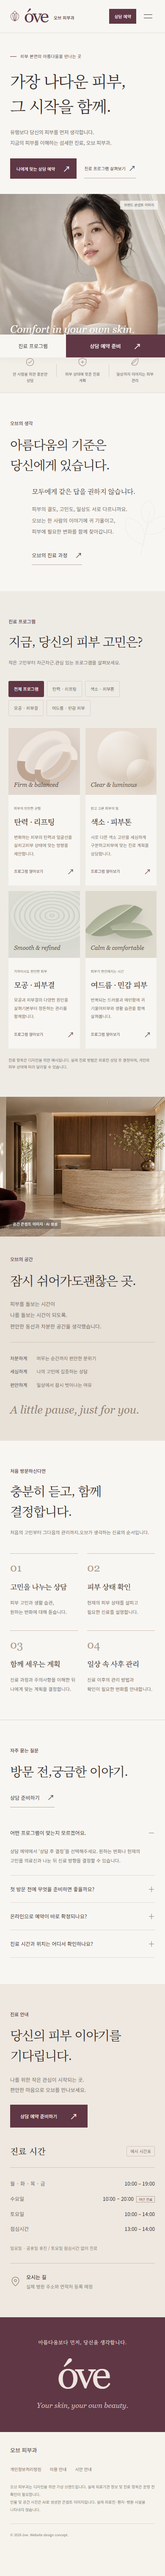
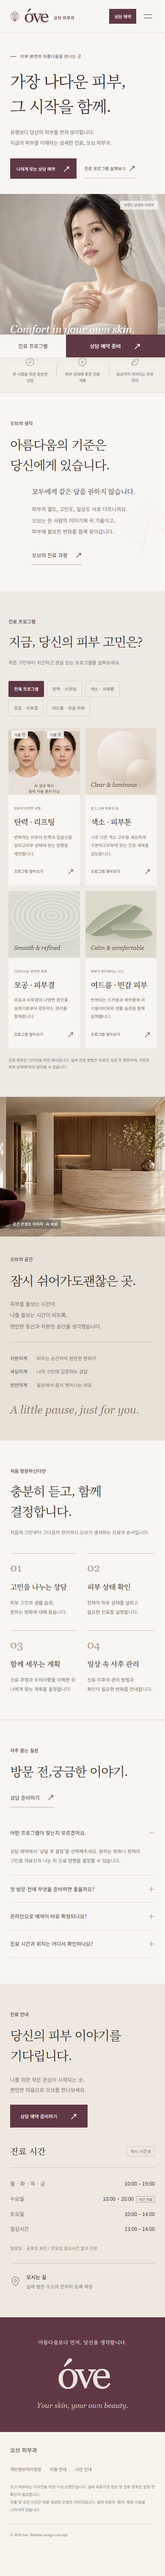
Prepare dermatology site for GitHub Pages

Changed region(s): [[0.0615, 0.2811, 0.4615, 0.3123]]

diff --git a/index.html b/index.html
@@ -52,7 +52,7 @@
       <div class="section-topline"><div><p class="section-kicker">진료 프로그램</p><h2 id="care-title">지금, 당신의 피부 고민은?</h2></div><p class="section-description">작은 고민부터 차근차근.<br>관심 있는 프로그램을 살펴보세요.</p></div>
       <div class="care-tabs" role="tablist" aria-label="피부 고민 선택"><button id="tab-all" role="tab" aria-selected="true" aria-controls="care-panel" data-category="all" tabindex="0">전체 프로그램</button><button id="tab-elasticity" role="tab" aria-selected="false" aria-controls="care-panel" data-category="elasticity" tabindex="-1">탄력 · 리프팅</button><button id="tab-tone" role="tab" aria-selected="false" aria-controls="care-panel" data-category="tone" tabindex="-1">색소 · 피부톤</button><button id="tab-texture" role="tab" aria-selected="false" aria-controls="care-panel" data-category="texture" tabindex="-1">모공 · 피부결</button><button id="tab-trouble" role="tab" aria-selected="false" aria-controls="care-panel" data-category="trouble" tabindex="-1">여드름 · 민감 피부</button></div>
       <div id="care-panel" class="care-grid" role="tabpanel" aria-labelledby="tab-all" tabindex="0">
-        <article class="care-card" data-care="elasticity"><div class="care-art art-lift" aria-hidden="true"><div class="silk-loop loop-one"></div><div class="silk-loop loop-two"></div><span>Firm &amp; balanced</span></div><div class="care-card-body"><span class="care-subtitle">피부의 탄탄한 균형</span><h3>탄력 · 리프팅</h3><p>변화하는 피부의 탄력과 얼굴선을 살피고<br>피부 상태에 맞는 방향을 제안합니다.</p><button class="card-link" data-detail="elasticity">프로그램 알아보기 <span aria-hidden="true">↗</span></button></div></article>
+        <article class="care-card" data-care="elasticity"><div class="care-art art-lift care-comparison"><img src="assets/lifting-before-after.png" alt="동일한 가상의 30대 한국 여성의 탄력·리프팅 시술 전후를 표현한 AI 생성 예시. 실제 환자나 시술 결과가 아닙니다." width="1536" height="1024" loading="lazy"><div class="comparison-labels" aria-hidden="true"><span>시술 전</span><span>시술 후</span></div><small class="comparison-note">AI 생성 예시<br>실제 시술 결과 아님</small></div><div class="care-card-body"><span class="care-subtitle">피부의 탄탄한 균형</span><h3>탄력 · 리프팅</h3><p>변화하는 피부의 탄력과 얼굴선을 살피고<br>피부 상태에 맞는 방향을 제안합니다.</p><button class="card-link" data-detail="elasticity">프로그램 알아보기 <span aria-hidden="true">↗</span></button></div></article>
         <article class="care-card" data-care="tone"><div class="care-art art-tone" aria-hidden="true"><div class="glass-sphere sphere-one"></div><div class="glass-sphere sphere-two"></div><span>Clear &amp; luminous</span></div><div class="care-card-body"><span class="care-subtitle">맑고 고른 피부의 빛</span><h3>색소 · 피부톤</h3><p>서로 다른 색소 고민을 세심하게 구분하고<br>피부에 맞는 진료 계획을 상담합니다.</p><button class="card-link" data-detail="tone">프로그램 알아보기 <span aria-hidden="true">↗</span></button></div></article>
         <article class="care-card" data-care="texture"><div class="care-art art-texture" aria-hidden="true"><div class="ripple"></div><span>Smooth &amp; refined</span></div><div class="care-card-body"><span class="care-subtitle">가까이서도 편안한 피부</span><h3>모공 · 피부결</h3><p>모공과 피부결의 다양한 원인을 살펴<br>기본부터 정돈하는 관리를 함께합니다.</p><button class="card-link" data-detail="texture">프로그램 알아보기 <span aria-hidden="true">↗</span></button></div></article>
         <article class="care-card" data-care="trouble"><div class="care-art art-calm" aria-hidden="true"><div class="calm-leaf leaf-one"></div><div class="calm-leaf leaf-two"></div><span>Calm &amp; comfortable</span></div><div class="care-card-body"><span class="care-subtitle">피부가 편안해지는 시간</span><h3>여드름 · 민감 피부</h3><p>반복되는 트러블과 예민함에 귀 기울여<br>피부와 생활 습관을 함께 살펴봅니다.</p><button class="card-link" data-detail="trouble">프로그램 알아보기 <span aria-hidden="true">↗</span></button></div></article>
@@ -73,7 +73,7 @@
   <footer class="site-footer"><div class="footer-top"><a class="footer-brand" href="#home">오브 피부과</a><div><button data-policy="privacy">개인정보처리방침</button><button data-policy="terms">이용 안내</button><button data-policy="demo">시안 안내</button></div></div><p>오브 피부과는 디자인을 위한 가상 브랜드입니다. 실제 의료기관 정보 및 진료 항목은 운영 전 확인이 필요합니다.<br>인물 및 공간 사진은 AI로 생성한 콘셉트 이미지입니다. 실제 의료진·환자·병원 시설을 나타내지 않습니다.</p><div class="footer-bottom"><span>© 2026 óve. Website design concept.</span><span>본연의 아름다움에 집중합니다.</span></div></footer>
   <div class="mobile-book-bar"><a href="#care">진료 프로그램</a><button data-book>상담 예약 준비 <span aria-hidden="true">↗</span></button></div>
 
-  <dialog id="booking-dialog" class="modal booking-modal" aria-labelledby="booking-title"><button class="modal-close" data-close aria-label="창 닫기">×</button><div id="booking-form-view"><p class="section-kicker">오브 상담 예약</p><h2 id="booking-title">피부 이야기를 들려주세요.</h2><p class="modal-intro">원하시는 상담 내용을 미리 정리해보세요.</p><p class="demo-notice">디자인 시안입니다. 입력 정보는 저장·전송되지 않으며 실제 예약은 접수되지 않습니다.</p><form id="booking-form"><div class="form-row"><label>이름<input name="name" autocomplete="off" placeholder="이름을 입력해주세요" required maxlength="30"></label><label>연락처<input name="phone" type="tel" inputmode="tel" autocomplete="off" placeholder="010-0000-0000" required maxlength="15" pattern="01[016789]-?[0-9]{3,4}-?[0-9]{4}" title="휴대전화 번호를 확인해주세요. 예: 010-1234-5678"></label></div><label>관심 프로그램<select name="program"><option value="undecided">상담 후 결정</option value="elasticity">탄력 · 리프팅</option><option value="tone">색소 · 피부톤</option><option value="texture">모공 · 피부결</option><option value="trouble">여드름 · 민감 피부</option></select></label><div class="form-row"><label>희망 날짜<input name="date" type="date" required></label><label>희망 시간<select name="time" required><option value="">시간을 선택해주세요</option></select></label></div><p id="date-hint" class="field-hint" aria-live="polite">예시 진료 시간 기준으로 선택할 수 있습니다.</p><label class="checkbox-label"><input type="checkbox" name="acknowledge" required><span>이 화면은 실제 예약 접수가 아닌 체험용임을 확인했습니다.</span></label><button class="button button-dark form-submit" type="submit">상담 내용 확인하기 <span aria-hidden="true">↗</span></button></form></div><div id="booking-review" hidden><p class="section-kicker">상담 내용 미리보기</p><h2 id="review-title" tabindex="-1">상담 준비가 되었습니다.</h2><p class="modal-intro">아래 내용은 이 화면에서만 확인할 수 있습니다.</p><dl id="review-content" class="review-content"></dl><p class="demo-notice">병원에 전송되지 않았습니다. 실제 예약은 병원 연락처와 예약 서비스를 연결한 후 이용할 수 있습니다.</p><button class="button button-dark form-submit" id="edit-booking">내용 수정하기</button></div></dialog>
+  <dialog id="booking-dialog" class="modal booking-modal" aria-labelledby="booking-title"><button class="modal-close" data-close aria-label="창 닫기">×</button><div id="booking-form-view"><p class="section-kicker">오브 상담 예약</p><h2 id="booking-title">피부 이야기를 들려주세요.</h2><p class="modal-intro">원하시는 상담 내용을 미리 정리해보세요.</p><p class="demo-notice">디자인 시안입니다. 입력 정보는 저장·전송되지 않으며 실제 예약은 접수되지 않습니다.</p><form id="booking-form"><div class="form-row"><label>이름<input name="name" autocomplete="off" placeholder="이름을 입력해주세요" required maxlength="30"></label><label>연락처<input name="phone" type="tel" inputmode="tel" autocomplete="off" placeholder="010-0000-0000" required maxlength="15" pattern="01[016789]-?[0-9]{3,4}-?[0-9]{4}" title="휴대전화 번호를 확인해주세요. 예: 010-1234-5678"></label></div><label>관심 프로그램<select name="program"><option value="undecided">상담 후 결정</option><option value="elasticity">탄력 · 리프팅</option><option value="tone">색소 · 피부톤</option><option value="texture">모공 · 피부결</option><option value="trouble">여드름 · 민감 피부</option></select></label><div class="form-row"><label>희망 날짜<input name="date" type="date" required></label><label>희망 시간<select name="time" required><option value="">시간을 선택해주세요</option></select></label></div><p id="date-hint" class="field-hint" aria-live="polite">예시 진료 시간 기준으로 선택할 수 있습니다.</p><label class="checkbox-label"><input type="checkbox" name="acknowledge" required><span>이 화면은 실제 예약 접수가 아닌 체험용임을 확인했습니다.</span></label><button class="button button-dark form-submit" type="submit">상담 내용 확인하기 <span aria-hidden="true">↗</span></button></form></div><div id="booking-review" hidden><p class="section-kicker">상담 내용 미리보기</p><h2 id="review-title" tabindex="-1">상담 준비가 되었습니다.</h2><p class="modal-intro">아래 내용은 이 화면에서만 확인할 수 있습니다.</p><dl id="review-content" class="review-content"></dl><p class="demo-notice">병원에 전송되지 않았습니다. 실제 예약은 병원 연락처와 예약 서비스를 연결한 후 이용할 수 있습니다.</p><button class="button button-dark form-submit" id="edit-booking">내용 수정하기</button></div></dialog>
   <dialog id="info-dialog" class="modal info-modal" aria-labelledby="info-title"><button class="modal-close" data-close aria-label="창 닫기">×</button><p class="section-kicker" id="info-kicker"></p><h2 id="info-title"></h2><div id="info-content"></div><button class="button button-dark" id="info-book">이 프로그램 상담 준비 <span aria-hidden="true">↗</span></button></dialog>
 </body>
 </html>

diff --git a/styles.css b/styles.css
@@ -13,3 +13,5 @@
 @media(max-width:680px){html{scroll-padding-top:78px}.section-shell{padding:62px 24px}.site-header{height:78px;padding:0 22px;position:sticky;top:0}.brand{gap:9px}.brand-mark{width:26px;height:33px}.wordmark{font-size:44px;gap:15px}.brand-ko{display:block;font-size:10px;letter-spacing:0;padding-top:7px}.desktop-nav{display:none}.header-actions{gap:10px}.header-actions .button-small{min-height:35px;padding:9px 12px;font-size:10px}.header-actions .button-small svg{display:none}.menu-toggle{display:block}.menu-toggle[aria-expanded=true] span:first-child{transform:translateY(4px) rotate(45deg)}.menu-toggle[aria-expanded=true] span:last-child{transform:translateY(-4px) rotate(-45deg)}.mobile-nav{position:absolute;top:78px;left:0;right:0;padding:12px 24px 22px;background:var(--paper);border-bottom:1px solid var(--line);box-shadow:0 10px 14px #322b2208}.mobile-nav.open{display:flex;flex-direction:column}.mobile-nav a{padding:13px 0;border-bottom:1px solid #e9e2d8;font-size:13px}.hero{display:flex;flex-direction:column;min-height:0}.hero-copy{padding:46px 24px 36px;order:0}.hero-intro{font-size:10px;margin-bottom:20px;gap:9px}.hero h1{font-size:38px;line-height:1.55}.hero-description{font-size:12px;margin-top:19px}.hero-actions{flex-direction:row;align-items:center;gap:18px;margin-top:25px}.hero-actions .button{font-size:10px;padding:15px 15px;gap:18px;min-height:47px}.hero-actions .text-link{font-size:10px;gap:7px}.hero-signature{display:none}.hero-visual{height:365px;order:1}.hero-visual>img{object-position:62% 40%}.image-caption{bottom:23px;left:24px;right:24px;font-size:25px}.image-caption>span:last-child{display:none}.hero-image-note{top:16px;right:17px;font-size:8px}.scroll-cue{display:none}.values-strip{padding:20px 24px;justify-content:space-between;gap:12px}.values-strip p{flex-direction:column;text-align:center;gap:9px;max-width:94px;font-size:9px;line-height:1.7}.values-strip svg{height:24px;width:24px}.values-strip>span{height:30px}.philosophy{grid-template-columns:1fr;gap:26px}.section-kicker{font-size:11px;margin-bottom:15px}h2{font-size:30px;line-height:1.6}.philosophy-copy{padding:0 0 0 15%}.philosophy-copy .lead{font-size:16px}.philosophy-copy>p:not(.lead){font-size:12px;margin-top:14px}.philosophy-copy .text-link{margin-top:20px}.botanical{right:-16px;bottom:40px;width:119px;opacity:.3}.section-topline{display:block}.section-description{margin-top:15px;font-size:11px}.section-description br{display:none}.care{padding-left:20px;padding-right:20px}.care-tabs{margin-top:26px;gap:7px}.care-tabs button{font-size:10px;padding:9px 12px}.care-grid{gap:13px;min-height:0}.care-art{height:158px}.care-art>span{font-size:14px;bottom:11px;left:13px}.care-card-body{padding:17px 13px}.care-subtitle{font-size:8px}.care-card h3{font-size:18px;margin-top:5px;margin-bottom:10px}.care-card p{font-size:10px;line-height:1.95}.card-link{font-size:9px;padding-top:18px}.card-link>span{font-size:17px}.care-note{font-size:9px;margin-top:20px}.silk-loop{width:145px;height:100px;border-width:19px;left:12px;top:17px}.loop-two{width:117px;height:80px;left:54px;top:47px;border-width:15px}.sphere-one{width:120px;height:120px;right:20px;top:7px}.sphere-two{height:67px;width:67px;right:4px;top:73px}.ripple{left:3px;top:-42px;width:200px;height:200px}.calm-leaf{left:25px;top:8px;width:82px;height:123px}.leaf-two{left:82px;top:50px;width:54px;height:87px}.care-grid.filtered .care-card{grid-template-columns:1fr 1fr;min-height:245px}.care-grid.filtered .care-art{height:100%}.care-grid.filtered .care-card-body{align-self:center}.space{grid-template-columns:1fr}.space-image{min-height:0;height:330px}.space-image img{object-position:center}.space-copy{padding:44px 24px 49px}.space-copy h2 br{display:none}.space-copy>p:not(.section-kicker){margin-top:19px}.space-details{margin-top:24px;padding-top:20px}.space-details p{display:flex;gap:22px;margin:4px 0;font-size:11px}.space-signature{margin-top:22px;font-size:26px}.journey-steps{grid-template-columns:1fr 1fr;row-gap:33px;column-gap:22px;margin-top:32px}.step-number{font-size:26px}.journey-steps h3{font-size:17px;margin-top:14px}.journey-steps p{font-size:11px;margin-top:10px}.faq{grid-template-columns:1fr;gap:22px}.faq h2 br{display:none}.faq .text-link{margin-top:16px}.faq summary{font-size:12px;padding:21px 0}.faq details>p{font-size:11px}.visit{grid-template-columns:1fr;gap:38px}.visit h2{font-size:30px}.visit-copy>.button{font-size:11px;margin-top:23px}.visit-info{padding-top:0}.hours>div{font-size:12px;padding:7px 0}.hours-note{font-size:10px}.visit-address p{font-size:11px}.closing{padding:48px 24px}.closing>p{font-size:12px}.closing-wordmark{font-size:94px}.closing>span{font-size:17px}.site-footer{padding:31px 24px 90px}.footer-top{align-items:flex-start;gap:18px;flex-direction:column}.footer-top>div{gap:20px}.site-footer>p{font-size:9px}.footer-bottom{font-size:8px;margin-top:23px;display:block}.footer-bottom>span:last-child{display:none}.mobile-book-bar{position:fixed;bottom:0;left:0;right:0;z-index:15;background:var(--paper);display:grid;grid-template-columns:1fr 1.5fr;box-shadow:0 -2px 20px #33231b10;padding-bottom:env(safe-area-inset-bottom)}.mobile-book-bar>a,.mobile-book-bar>button{font-size:12px;min-height:54px;display:flex;align-items:center;justify-content:center}.mobile-book-bar>button{background:var(--wine);color:white;gap:30px}.mobile-book-bar>button>span{font-size:18px}.modal{padding:32px 24px;width:calc(100% - 26px);max-height:calc(100dvh - 28px)}.modal h2{font-size:24px}.modal .section-kicker{font-size:11px}.demo-notice{font-size:10px}.form-row{gap:12px}#booking-form label:not(.checkbox-label){font-size:11px}#booking-form input:not([type=checkbox]),#booking-form select{font-size:12px;padding:9px 7px}.checkbox-label{font-size:10px}.info-modal{padding-top:40px}}
 @media(max-width:370px){.brand-ko{display:none}.hero h1{font-size:34px}.hero-actions{gap:12px}.hero-actions .button{font-size:9px;gap:10px}.hero-actions .text-link{font-size:9px}.hero-visual{height:320px}.care-grid{grid-template-columns:1fr}.care-art{height:200px}.care-card-body{padding:22px}.care-card p{font-size:12px}.care-subtitle{font-size:10px}.care-card h3{font-size:22px}.card-link{font-size:11px}.care-grid.filtered .care-card{grid-template-columns:1fr}.care-grid.filtered .care-art{height:180px}.form-row{grid-template-columns:1fr}.modal h2{font-size:22px}}
 @media(prefers-reduced-motion:reduce){html{scroll-behavior:auto}*,*:before,*:after{animation:none!important;transition:none!important}}
+/* AI concept comparison for the lifting program. */
+.care-comparison{background:#e7e0d8}.care-comparison>img{position:absolute;inset:0 0 30px;width:100%;height:calc(100% - 30px);object-fit:contain}.comparison-labels{position:absolute;top:7px;left:0;right:0;display:grid;grid-template-columns:1fr 1fr;text-align:center}.comparison-labels span{justify-self:start;margin-left:7px;background:#f8f6f2ed;color:var(--wine);padding:1px 6px;font-size:9px;line-height:1.7}.comparison-note{position:absolute;bottom:2px;left:5px;right:5px;text-align:center;font-size:9px;line-height:13px;color:#53473f}

diff --git a/DESIGN.md b/DESIGN.md
@@ -49,6 +49,16 @@ Use case: photorealistic-natural. Asset type: editorial photograph for a premium
 
 ## 화면 검토 후 반영
 
+### `assets/lifting-before-after.png`
+
+탄력·리프팅 카드의 추상 일러스트를 내장 `image_gen`으로 생성한 PNG로 교체했다. 같은 가상의 30대 한국 여성의 전후 비교를 표현한 디자인 예시이며 실제 시술 결과가 아니다. 전후 라벨과 AI 생성 안내는 HTML로 표시한다. 이미지 전체를 보여 얼굴이 잘리지 않게 한다.
+
+최종 생성 프롬프트:
+
+```text
+Use case: photorealistic-natural. Asset type: a small dermatology website card illustration (fictional AI concept, never real clinical evidence). Generate one wide 3:2 photographic diptych showing the SAME fictional Korean woman aged about 35 in two side-by-side matched frontal head-and-shoulder portraits. Left intended as BEFORE cosmetic skin firmness treatment, right intended as AFTER concept. Left shows natural mild nasolabial lines and slightly less defined jawline; right shows modestly firmer-looking skin and subtler lines while retaining visible pores and realistic skin texture, same age and identity. No dramatic transformation. Hair tied neatly back, neutral closed mouth expression, identical eye direction, pose, camera, clothing, soft diffused lighting and warm pale beige background on both sides. Ivory crew-neck top, full head and jawline visible within each half, photographically consistent. Thin central divider. This is an invented design mockup, not a patient or proven treatment outcome. No text, letters, watermarks, badges, equipment or graphics; labels and AI disclosure will be added as accessible HTML. Keep both faces centered in their respective panels with matching scale.
+```
+
 - 모바일 사진 캡션의 두 영문 문구가 줄바꿈되어 한 문구만 남겼다.
 - 프로그램을 하나만 선택했을 때 카드를 넓혀 상세 탐색 상태를 읽기 쉽게 만들었다.
 - 상담 종료 후 입력값과 확인 내용을 지우며 서버 호출을 하지 않는다.
